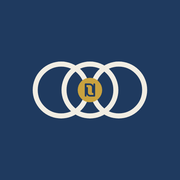
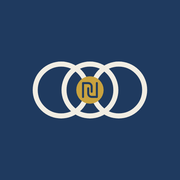
סימן שקל חד וברור בלוגו
Claude-Session: https://claude.ai/code/session_01RedowitGrSeX2WNSZZk1EZ

Changed region(s): [[0.4167, 0.4167, 0.5833, 0.5833]]

diff --git a/admin.html b/admin.html
@@ -10,7 +10,7 @@
 </head>
 <body>
 <div class="w">
-<header class="brand"><svg width="104" height="58" viewBox="0 0 160 90" role="img" aria-label="נקודת איזון"><g fill="none" stroke-width="6"><circle cx="40" cy="45" r="36" stroke="#1F3A5F"/><circle cx="80" cy="45" r="36" stroke="#8C3B3B"/><circle cx="120" cy="45" r="36" stroke="#1F6F50"/></g><circle cx="80" cy="45" r="17" fill="#C9A23F"/><g transform="translate(68 33) scale(1)"><path d="M6 20V4h5.5A4.5 4.5 0 0116 8.5V15M18 4v16h-5.5A4.5 4.5 0 018 15.5V9" fill="none" stroke="#fff" stroke-width="2.4" stroke-linecap="round" stroke-linejoin="round"/></g></svg></header>
+<header class="brand"><svg width="104" height="58" viewBox="0 0 160 90" role="img" aria-label="נקודת איזון"><g fill="none" stroke-width="6"><circle cx="40" cy="45" r="36" stroke="#1F3A5F"/><circle cx="80" cy="45" r="36" stroke="#8C3B3B"/><circle cx="120" cy="45" r="36" stroke="#1F6F50"/></g><circle cx="80" cy="45" r="19" fill="#C9A23F"/><g transform="translate(65.6 30.6) scale(1.2)"><path d="M4 20V4h6a4 4 0 014 4v6M20 4v16h-6a4 4 0 01-4-4v-6" fill="none" stroke="#fff" stroke-width="2.3" stroke-linecap="round" stroke-linejoin="round"/></g></svg></header>
 <div class="sub"><span id="sv"></span></div>
 <nav id="nav" class="n4"></nav>
 <div id="app"></div>

diff --git a/couple.html b/couple.html
@@ -16,7 +16,7 @@
 </head>
 <body>
 <div class="w">
-<header class="brand"><svg width="104" height="58" viewBox="0 0 160 90" role="img" aria-label="נקודת איזון"><g fill="none" stroke-width="6"><circle cx="40" cy="45" r="36" stroke="#1F3A5F"/><circle cx="80" cy="45" r="36" stroke="#8C3B3B"/><circle cx="120" cy="45" r="36" stroke="#1F6F50"/></g><circle cx="80" cy="45" r="17" fill="#C9A23F"/><g transform="translate(68 33) scale(1)"><path d="M6 20V4h5.5A4.5 4.5 0 0116 8.5V15M18 4v16h-5.5A4.5 4.5 0 018 15.5V9" fill="none" stroke="#fff" stroke-width="2.4" stroke-linecap="round" stroke-linejoin="round"/></g></svg></header>
+<header class="brand"><svg width="104" height="58" viewBox="0 0 160 90" role="img" aria-label="נקודת איזון"><g fill="none" stroke-width="6"><circle cx="40" cy="45" r="36" stroke="#1F3A5F"/><circle cx="80" cy="45" r="36" stroke="#8C3B3B"/><circle cx="120" cy="45" r="36" stroke="#1F6F50"/></g><circle cx="80" cy="45" r="19" fill="#C9A23F"/><g transform="translate(65.6 30.6) scale(1.2)"><path d="M4 20V4h6a4 4 0 014 4v6M20 4v16h-6a4 4 0 01-4-4v-6" fill="none" stroke="#fff" stroke-width="2.3" stroke-linecap="round" stroke-linejoin="round"/></g></svg></header>
 <div class="sub"><span id="sv">טוען...</span></div>
 <nav id="nav"></nav>
 <div id="app"></div>
